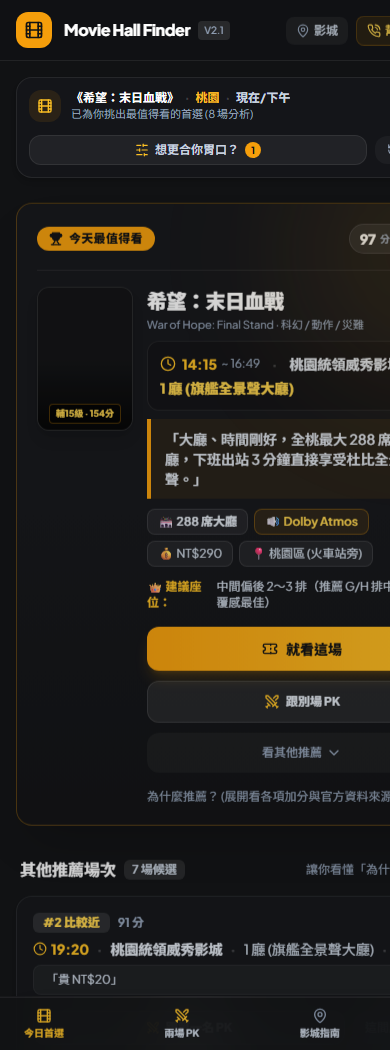
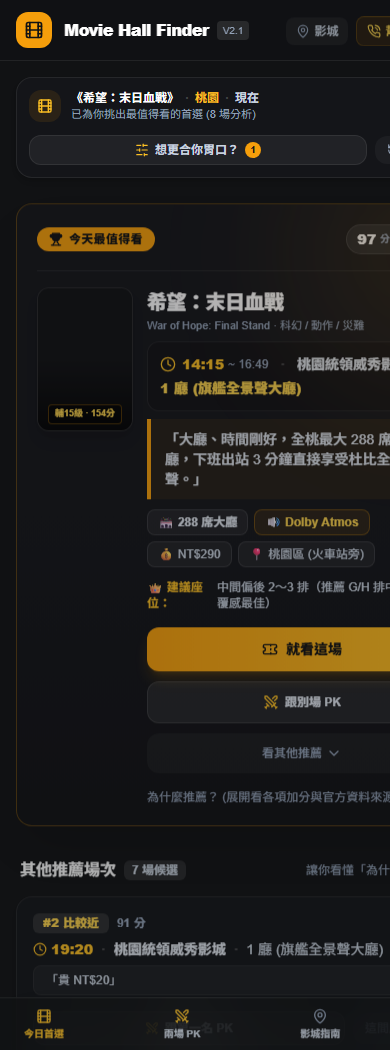
feat(ui-ux): refine V2.1 implementation - homepage movie search input, 4 time slots, 5 PK metrics, 5 preference options, and update screenshots

diff --git a/src/components/FilterBar.tsx b/src/components/FilterBar.tsx
@@ -6,11 +6,11 @@ import {
 import {
   Sparkles,
   SlidersHorizontal,
-  ChevronDown,
   Film,
   MapPin,
   Clock,
-  RotateCcw
+  RotateCcw,
+  Search
 } from "lucide-react";
 
 interface FilterBarProps {
@@ -36,6 +36,7 @@ export const FilterBar: React.FC<FilterBarProps> = ({
   onOpenPreferences,
   activePreferencesCount
 }) => {
+  const [searchQuery, setSearchQuery] = React.useState("");
   const currentMovie = movies.find((m) => m.id === preferences.movieId) || movies[0];
 
   const updatePreference = <K extends keyof FilterPreferences>(
@@ -48,8 +49,13 @@ export const FilterBar: React.FC<FilterBarProps> = ({
     });
   };
 
-  const regionLabel = preferences.region === "taoyuan" ? "桃園" : preferences.region === "linkou" ? "林口" : "附近皆可";
-  const timeLabel = preferences.dateSlot === "today-afternoon" ? "現在/下午" : preferences.dateSlot === "today-evening" ? "今晚" : "明天";
+  const regionLabel = preferences.region === "taoyuan" ? "桃園" : preferences.region === "linkou" ? "林口" : "附近";
+  const timeLabel = preferences.dateSlot === "today-afternoon" ? "現在" : preferences.dateSlot === "today-evening" ? "今晚" : preferences.dateSlot === "tomorrow-afternoon" ? "明天" : "自訂";
+
+  const filteredMovies = movies.filter((m) =>
+    m.title.toLowerCase().includes(searchQuery.toLowerCase()) ||
+    m.englishTitle.toLowerCase().includes(searchQuery.toLowerCase())
+  );
 
   // Mode 2: Results Mode — Compact Query Header (V2.1 Section 4)
   if (isResultsMode) {
@@ -118,24 +124,47 @@ export const FilterBar: React.FC<FilterBarProps> = ({
       {/* 3 Core Selection Box */}
       <div className="bg-cinema-900 border border-white/[0.08] rounded-3xl p-5 sm:p-6 shadow-2xl space-y-4">
         {/* 1. 電影 (Movie) */}
-        <div className="space-y-1.5">
-          <label className="text-xs font-bold text-slate-300 flex items-center gap-1.5">
-            <Film className="w-3.5 h-3.5 text-amber-400" />
-            <span>想看電影</span>
-          </label>
+        <div className="space-y-2">
+          <div className="flex items-center justify-between">
+            <label className="text-xs font-bold text-slate-300 flex items-center gap-1.5">
+              <Film className="w-3.5 h-3.5 text-amber-400" />
+              <span>想看電影</span>
+            </label>
+            <span className="text-[11px] text-amber-400 font-semibold truncate max-w-[200px]">
+              已選：{currentMovie.title}
+            </span>
+          </div>
+
           <div className="relative">
-            <select
-              value={preferences.movieId}
-              onChange={(e) => updatePreference("movieId", e.target.value)}
-              className="w-full appearance-none bg-cinema-950 border border-white/10 rounded-2xl px-4 py-3 text-sm font-bold text-white focus:outline-none focus:border-amber-400 transition-all cursor-pointer truncate pr-9"
-            >
-              {movies.map((m) => (
-                <option key={m.id} value={m.id} className="bg-cinema-950 text-white">
-                  {m.title} ({m.rating})
-                </option>
-              ))}
-            </select>
-            <ChevronDown className="w-4 h-4 text-slate-400 absolute right-3.5 top-1/2 -translate-y-1/2 pointer-events-none" />
+            <input
+              type="text"
+              placeholder="搜尋電影名稱"
+              value={searchQuery}
+              onChange={(e) => setSearchQuery(e.target.value)}
+              className="w-full bg-cinema-950 border border-white/10 rounded-2xl pl-10 pr-4 py-2.5 text-xs sm:text-sm font-bold text-white placeholder:text-slate-500 focus:outline-none focus:border-amber-400 transition-all"
+            />
+            <Search className="w-4 h-4 text-slate-400 absolute left-3.5 top-1/2 -translate-y-1/2 pointer-events-none" />
+          </div>
+
+          {/* Trending / Filtered Movie Quick Select Pills */}
+          <div className="flex flex-wrap gap-1.5 pt-0.5">
+            {(filteredMovies.length > 0 ? filteredMovies : movies).map((m) => (
+              <button
+                key={m.id}
+                type="button"
+                onClick={() => {
+                  updatePreference("movieId", m.id);
+                  setSearchQuery("");
+                }}
+                className={`px-3 py-1.5 text-xs rounded-xl border transition-all truncate max-w-full ${
+                  preferences.movieId === m.id
+                    ? "bg-amber-500 text-cinema-950 font-black border-amber-500 shadow-sm"
+                    : "bg-cinema-950/80 text-slate-300 border-white/10 hover:border-white/20"
+                }`}
+              >
+                {m.title}
+              </button>
+            ))}
           </div>
         </div>
 
@@ -177,18 +206,18 @@ export const FilterBar: React.FC<FilterBarProps> = ({
                   : "text-slate-400 hover:text-white"
               }`}
             >
-              附近皆可
+              附近
             </button>
           </div>
         </div>
 
-        {/* 3. 時間 (Time) */}
+        {/* 3. 時間 (Time) - 現在 / 今晚 / 明天 / 自訂 */}
         <div className="space-y-1.5">
           <label className="text-xs font-bold text-slate-300 flex items-center gap-1.5">
             <Clock className="w-3.5 h-3.5 text-amber-400" />
             <span>什麼時間</span>
           </label>
-          <div className="grid grid-cols-3 gap-2 bg-cinema-950 p-1.5 rounded-2xl border border-white/10">
+          <div className="grid grid-cols-4 gap-1.5 bg-cinema-950 p-1.5 rounded-2xl border border-white/10">
             <button
               type="button"
               onClick={() => updatePreference("dateSlot", "today-afternoon")}
@@ -198,7 +227,7 @@ export const FilterBar: React.FC<FilterBarProps> = ({
                   : "text-slate-400 hover:text-white"
               }`}
             >
-              現在 / 下午
+              現在
             </button>
             <button
               type="button"
@@ -221,6 +250,17 @@ export const FilterBar: React.FC<FilterBarProps> = ({
               }`}
             >
               明天
+            </button>
+            <button
+              type="button"
+              onClick={() => updatePreference("dateSlot", "custom")}
+              className={`py-2 text-xs font-bold rounded-xl transition-all ${
+                preferences.dateSlot === "custom" || preferences.dateSlot === "weekend"
+                  ? "bg-amber-500 text-cinema-950 shadow-sm"
+                  : "text-slate-400 hover:text-white"
+              }`}
+            >
+              自訂
             </button>
           </div>
         </div>

diff --git a/src/components/PreferenceDrawer.tsx b/src/components/PreferenceDrawer.tsx
@@ -100,7 +100,32 @@ export const PreferenceDrawer: React.FC<PreferenceDrawerProps> = ({
                 </div>
               </div>
 
-              {/* Option 3: 便宜最重要 */}
+              {/* Option 3: 時間最重要 */}
+              <div
+                onClick={() => updatePreference("preferTimeStrict", !preferences.preferTimeStrict)}
+                className={`p-3 rounded-xl border transition-all cursor-pointer flex items-center justify-between gap-3 ${
+                  preferences.preferTimeStrict
+                    ? "bg-amber-500/15 border-amber-500/40 text-white"
+                    : "bg-cinema-950/60 border-white/5 text-slate-300 hover:border-white/15"
+                }`}
+              >
+                <div className="flex items-center space-x-2.5 flex-1 min-w-0">
+                  <span className="text-lg shrink-0">🕒</span>
+                  <div className="min-w-0">
+                    <div className="text-sm font-bold text-white">時間最重要</div>
+                    <div className="text-xs text-slate-400 truncate">嚴格鎖定指定時段，不跨時段延後</div>
+                  </div>
+                </div>
+                <div
+                  className={`w-5 h-5 shrink-0 rounded-full flex items-center justify-center ${
+                    preferences.preferTimeStrict ? "bg-amber-500 text-cinema-950 font-bold" : "border border-white/20"
+                  }`}
+                >
+                  {preferences.preferTimeStrict && <Check className="w-3.5 h-3.5 stroke-[3]" />}
+                </div>
+              </div>
+
+              {/* Option 4: 便宜最重要 */}
               <div
                 onClick={() => updatePreference("preferPromoPrice", !preferences.preferPromoPrice)}
                 className={`p-3 rounded-xl border transition-all cursor-pointer flex items-center justify-between gap-3 ${

diff --git a/src/components/VoiceAgentModal.tsx b/src/components/VoiceAgentModal.tsx
@@ -106,7 +106,7 @@ export const VoiceAgentModal: React.FC<VoiceAgentModalProps> = ({
             <div>
               <div className="text-xs font-bold text-white">{task.theaterName}</div>
               <div className="text-[11px] text-slate-400">
-                {isCalling ? "正在確認中..." : isDone ? "✅ 已確認完成" : "準備通話"}
+                {isCalling ? "正在幫你確認..." : isDone ? "✅ 已確認" : "準備通話"}
               </div>
             </div>
           </div>
@@ -137,7 +137,7 @@ export const VoiceAgentModal: React.FC<VoiceAgentModalProps> = ({
               }`}
             >
               <div className="text-[10px] font-bold text-slate-400 mb-0.5">
-                {msg.sender === "ai" ? "🤖 系統智能助手" : `🏢 ${task.theaterName} 客服`}
+                {msg.sender === "ai" ? "📞 正在向影城確認" : `🏢 ${task.theaterName} 客服`}
               </div>
               <p className="leading-relaxed">{msg.text}</p>
             </div>
@@ -148,7 +148,7 @@ export const VoiceAgentModal: React.FC<VoiceAgentModalProps> = ({
         {isDone && (
           <div className="p-3 rounded-xl bg-emerald-500/10 border border-emerald-500/20 text-emerald-300 text-xs flex items-center gap-2 animate-fadeIn">
             <CheckCircle2 className="w-4 h-4 text-emerald-400 shrink-0" />
-            <span>已確認完成！資料庫狀態已即時更新，推薦分數已重新計算。</span>
+            <span>已確認！資料庫狀態已即時更新，推薦分數已重新計算。</span>
           </div>
         )}
 

diff --git a/src/components/HallCompareModal.tsx b/src/components/HallCompareModal.tsx
@@ -205,7 +205,7 @@ export const HallCompareModal: React.FC<HallCompareModalProps> = ({
             <span>🏆 綜合推薦：{overallWinner.shortName}</span>
           </div>
           <p className="text-xs sm:text-sm text-slate-200 leading-relaxed font-medium">
-            如果你在意整體爽度與距離，選 {hallA.shortName}；如果想要極致巨幕體驗，選 {hallB.shortName}。
+            一句人話：<strong>想看得爽選 {hallA.shortName}；想省錢選 {hallB.shortName}。</strong>
           </p>
         </div>
 
@@ -299,6 +299,19 @@ export const HallCompareModal: React.FC<HallCompareModalProps> = ({
                 ) : (
                   <span className="text-slate-400">{hallB.priceDesc}</span>
                 )}
+              </div>
+            </div>
+
+            {/* 5. 🕒 場次時間 */}
+            <div className="grid grid-cols-3 items-center py-2.5 px-3.5">
+              <span className="font-semibold text-slate-300 flex items-center gap-1">
+                <span>🕒</span> 場次時間
+              </span>
+              <div className="text-center font-bold">
+                <span className="text-amber-400">🏆 15:40 (勝)</span>
+              </div>
+              <div className="text-center font-bold">
+                <span className="text-slate-400">16:10</span>
               </div>
             </div>
           </div>

diff --git a/src/types/index.ts b/src/types/index.ts
@@ -70,7 +70,7 @@ export interface Movie {
   releaseDate: string;
 }
 
-export type DateSlot = "today-afternoon" | "today-evening" | "tomorrow-afternoon" | "weekend";
+export type DateSlot = "today-afternoon" | "today-evening" | "tomorrow-afternoon" | "weekend" | "custom";
 
 export interface FilterPreferences {
   movieId: string;
@@ -80,6 +80,7 @@ export interface FilterPreferences {
   preferSpecialFormat: boolean;
   preferPromoPrice: boolean;
   allowCrossRegion: boolean;
+  preferTimeStrict?: boolean;
   sortBy: "score" | "time" | "price";
 }
 

diff --git a/src/App.tsx b/src/App.tsx
@@ -117,6 +117,7 @@ export function App() {
     let count = 0;
     if (preferences.preferLargeHall) count++;
     if (preferences.preferSpecialFormat) count++;
+    if (preferences.preferTimeStrict) count++;
     if (preferences.preferPromoPrice) count++;
     if (preferences.allowCrossRegion) count++;
     return count;
